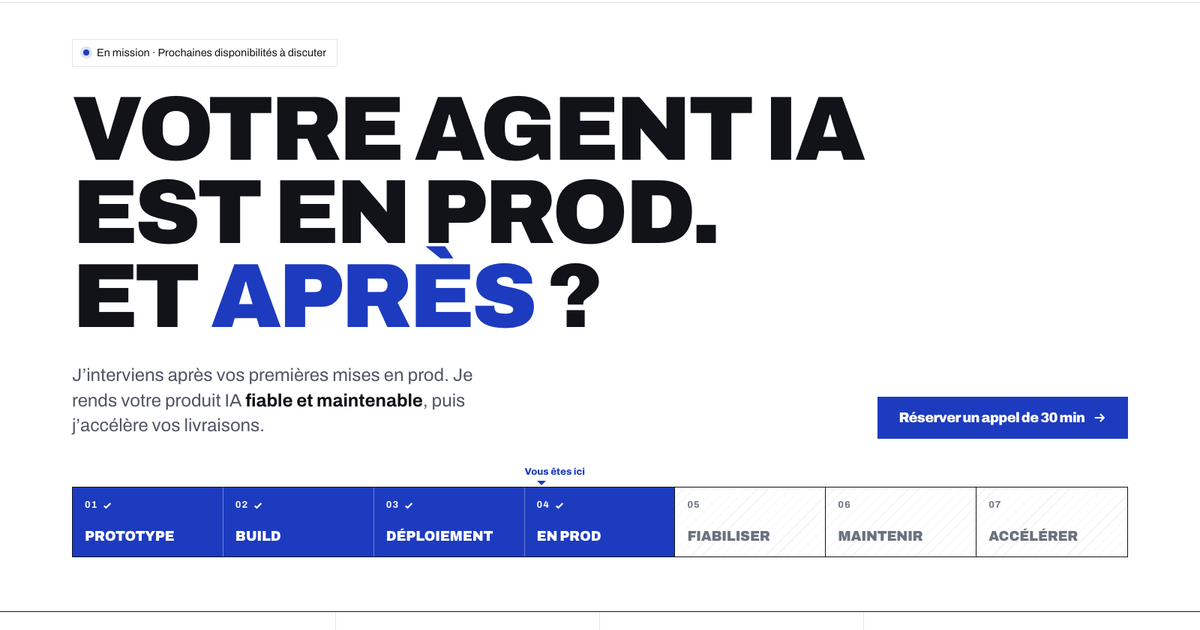
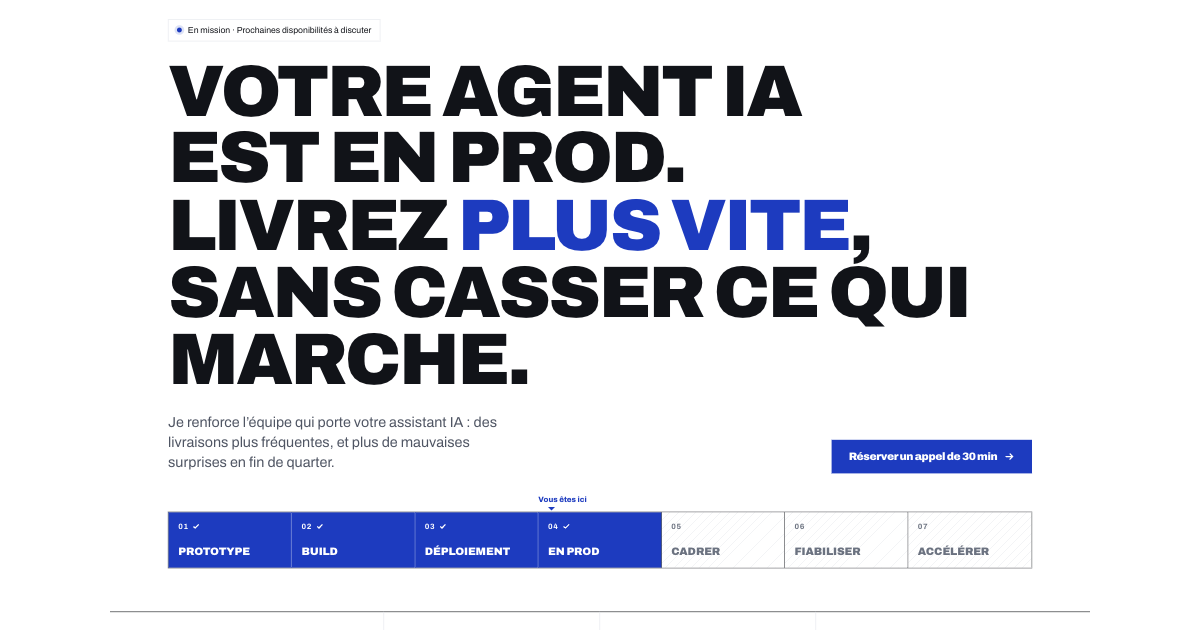
feat: nouveau hero « Livrez plus vite, sans casser ce qui marche »
Met à jour la méta-description et l'image de partage, qui montrait
encore l'ancien hero. Le paramètre ?v=2 force les réseaux sociaux à
recharger l'image.

Changed region(s): [[0.0617, 0.0302, 0.9558, 0.9048]]

diff --git a/PRODUCT.md b/PRODUCT.md
@@ -42,7 +42,7 @@ Charles intervient après les premières mises en production d'un agent ou d'un 
 ## Brand Commitments
 
 - Nom affiché : « Charles-Meldhine » (en-tête), « Charles-Meldhine Madi Mnemoi » (métadonnées, mentions légales). Titre : « Ingénieur IA ».
-- Hero : « VOTRE AGENT IA EST EN PROD. TENEZ LE **QUARTER**. » Sous-titre : « Vous avez promis des livraisons à votre hiérarchie. Je renforce l'équipe qui porte votre assistant IA pour que ce qui est promis soit fini, à la date annoncée. »
+- Hero : « VOTRE AGENT IA EST EN PROD. LIVREZ **PLUS VITE**, SANS CASSER CE QUI MARCHE. » Sous-titre : « Je renforce l'équipe qui porte votre assistant IA : des livraisons plus fréquentes, et plus de mauvaises surprises en fin de quarter. »
 - Référence visuelle existante : ses cards LinkedIn (`card_linkedin.png`). Fond blanc, motif de losanges gris clair, grotesque très grasse en majuscules noires, un mot clé en bleu roi, signature avec photo ronde. Degré de reprise non décidé.
 - Structure inspirée de williamalexander.tech.
 
